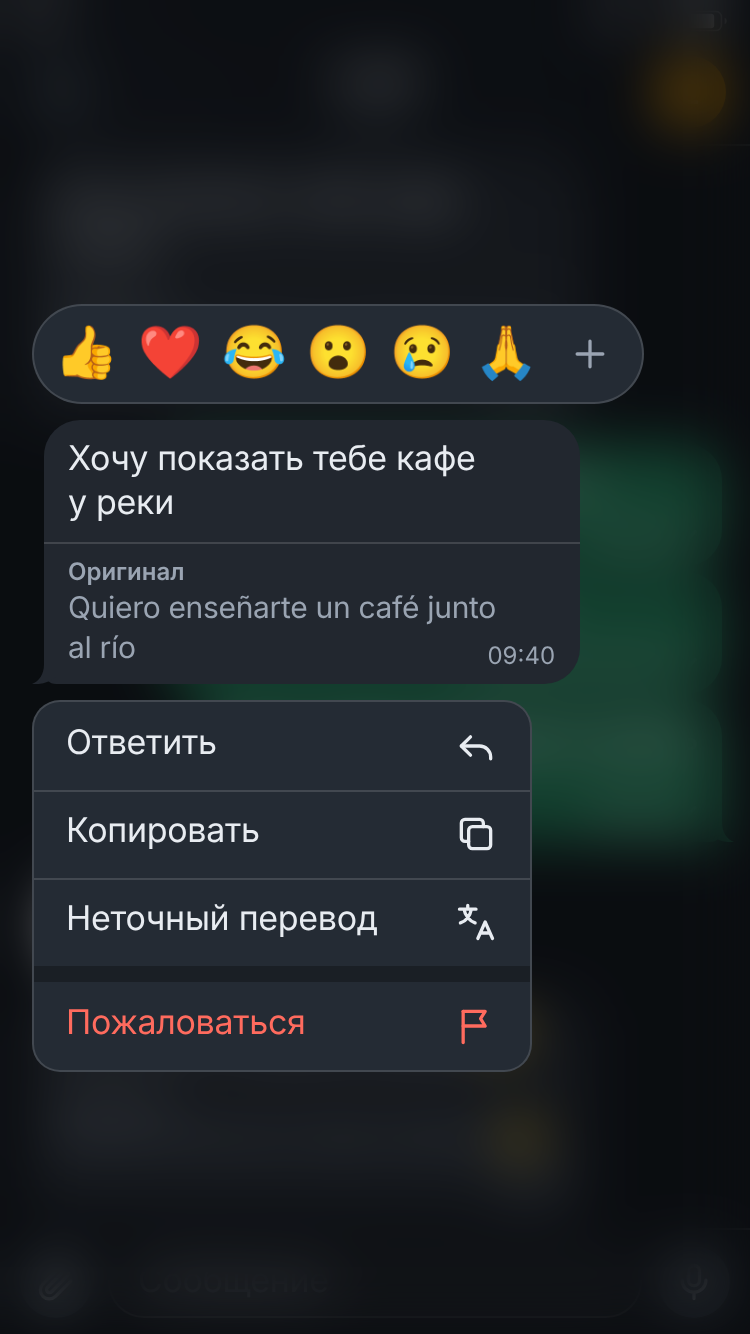
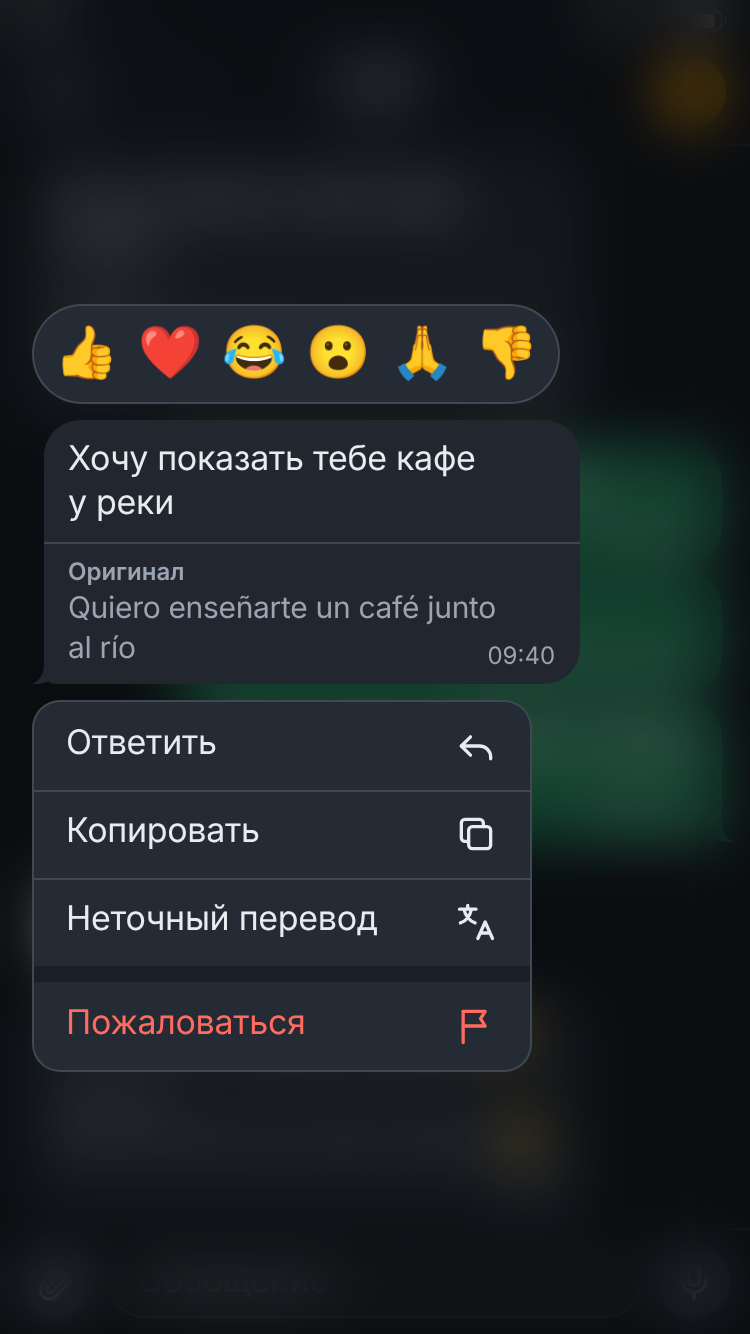
Меню облачка: реакции как в iOS — 👍 ❤ 😂 😮 🙏 👎, без «＋»
Claude-Session: https://claude.ai/code/session_01XzoWkW25V1nW2Qv4cEPq3n

Changed region(s): [[0.736, 0.2151, 0.8587, 0.3073], [0.5213, 0.2459, 0.6133, 0.3073], [0.644, 0.2459, 0.7053, 0.3073]]

diff --git a/redesign-ios/s2-menu-long.html b/redesign-ios/s2-menu-long.html
@@ -20,7 +20,7 @@ document.querySelectorAll('[data-'+l+']').forEach(function(e){e.textContent=e.da
 <div class="wv"><div class="bars"><i class="" style="height:8px"></i><i class="" style="height:14px"></i><i class="" style="height:20px"></i><i class="" style="height:12px"></i><i class="" style="height:24px"></i><i class="" style="height:18px"></i><i class="" style="height:10px"></i><i class="" style="height:22px"></i><i class="" style="height:26px"></i><i class="r" style="height:16px"></i><i class="r" style="height:12px"></i><i class="r" style="height:20px"></i><i class="r" style="height:24px"></i><i class="r" style="height:14px"></i><i class="r" style="height:8px"></i><i class="r" style="height:12px"></i><i class="r" style="height:18px"></i><i class="r" style="height:22px"></i><i class="r" style="height:14px"></i><i class="r" style="height:10px"></i><i class="r" style="height:16px"></i><i class="r" style="height:20px"></i><i class="r" style="height:12px"></i><i class="r" style="height:8px"></i><i class="r" style="height:6px"></i></div><div class="dur">0:14<span class="ms" aria-hidden="true">09:55</span><span class="m">09:55</span></div></div></div></div><div class="b tail in-t">Отлично! Тогда до завтра 🙂<div class="orig"><span class="lb">Оригинал</span><p lang="es">¡Genial! Entonces hasta mañana 🙂<span class="ms" aria-hidden="true">09:56</span><span class="m">09:56</span></p></div></div></div>
 </div>
 <header class="nav"><div class="bar"><span class="cbtn" aria-label="Назад"><svg class="ic " viewBox="0 0 24 24" aria-hidden="true"><path d="M14.5 5.5L8 12l6.5 6.5"/></svg></span><div class="ttl"><b>Lucía</b><span>в сети</span></div><span class="av av36" style="background:var(--av-1)">L</span></div></header>
-<div class="comp"><span class="cbtn" aria-label="Вложение"><svg class="ic " viewBox="0 0 24 24" aria-hidden="true"><path d="M20 11.5l-8.3 8.3a4.8 4.8 0 01-6.8-6.8l8.6-8.6a3.2 3.2 0 014.5 4.5l-8.4 8.4a1.6 1.6 0 01-2.3-2.3l7.7-7.7"/></svg></span><div class="field"><span>Сообщение</span></div><span class="cbtn" aria-label="Голосовое"><svg class="ic " viewBox="0 0 24 24" aria-hidden="true"><rect x="9" y="3" width="6" height="11" rx="3"/><path d="M5.5 11a6.5 6.5 0 0013 0M12 17.5V21"/></svg></span></div><div class="scrim blur"></div><div class="ctx"><div class="rxbar" role="group" aria-label="Реакции"><b>👍</b><b>❤</b><b>😂</b><b>😮</b><b>😢</b><b>🙏</b><b class="more" aria-label="Другие реакции"><svg class="ic " viewBox="0 0 24 24" aria-hidden="true"><path d="M12 5v14M5 12h14"/></svg></b></div>
+<div class="comp"><span class="cbtn" aria-label="Вложение"><svg class="ic " viewBox="0 0 24 24" aria-hidden="true"><path d="M20 11.5l-8.3 8.3a4.8 4.8 0 01-6.8-6.8l8.6-8.6a3.2 3.2 0 014.5 4.5l-8.4 8.4a1.6 1.6 0 01-2.3-2.3l7.7-7.7"/></svg></span><div class="field"><span>Сообщение</span></div><span class="cbtn" aria-label="Голосовое"><svg class="ic " viewBox="0 0 24 24" aria-hidden="true"><rect x="9" y="3" width="6" height="11" rx="3"/><path d="M5.5 11a6.5 6.5 0 0013 0M12 17.5V21"/></svg></span></div><div class="scrim blur"></div><div class="ctx"><div class="rxbar" role="group" aria-label="Реакции"><b>👍</b><b>❤</b><b>😂</b><b>😮</b><b>🙏</b><b>👎</b></div>
 <div class="lift long"><div class="grp in"><div class="b tail in-t">Слушай, я тут подумала: если завтра будет дождь, давай встретимся не у моста, а сразу в кафе у реки. Там есть терраса под навесом, и вид на воду ничуть не хуже. А если будет солнце, можно сначала пройтись по набережной до старой мельницы, там красиво на закате, а потом уже сесть в кафе и взять тот самый пирог с инжиром, про который я говорила.<div class="orig"><span class="lb">Оригинал</span><p lang="es">Oye, si mañana llueve, quedamos en el café del río y no en el puente. Tiene una terraza con techo y la vista al agua es igual de bonita. Y si hace sol, damos un paseo hasta el viejo molino, que de tarde es precioso, y luego nos sentamos en el café a pedir la tarta de higos de la que te hablé.<span class="ms" aria-hidden="true">09:41</span><span class="m">09:41</span></p></div></div></div></div>
 <div class="menu ctxm" role="menu"><div class="it"><span>Ответить</span><svg class="ic " viewBox="0 0 24 24" aria-hidden="true"><path d="M9 7 4 12l5 5"/><path d="M4 12h10a6 6 0 016 6v1"/></svg></div><div class="it"><span>Копировать</span><svg class="ic " viewBox="0 0 24 24" aria-hidden="true"><rect x="8" y="8" width="12" height="12" rx="2"/><path d="M16 8V6a2 2 0 00-2-2H6a2 2 0 00-2 2v8a2 2 0 002 2h2"/></svg></div><div class="it"><span>Неточный перевод</span><svg class="ic " viewBox="0 0 24 24" aria-hidden="true"><path d="M3 5h9M7.5 3v2M5.5 5c.5 3.5 3 6.5 6 7.5M9.5 5c-.7 3.6-3 6.6-6 7.5"/><path d="m13 21 4-9 4 9M14.4 18h5.2"/></svg></div><div class="gap"></div><div class="it danger"><span>Пожаловаться</span><svg class="ic " viewBox="0 0 24 24" aria-hidden="true"><path d="M5 21V4"/><path d="M5 4h12l-2.5 4L17 12H5"/></svg></div></div></div>
 <script>(document.fonts?document.fonts.ready:Promise.resolve()).then(function(){var l=document.querySelector('.ctx .lift');if(l&&l.scrollHeight>l.clientHeight+1)l.classList.add('long')})</script>

diff --git a/redesign-ios/s2-menu.html b/redesign-ios/s2-menu.html
@@ -20,7 +20,7 @@ document.querySelectorAll('[data-'+l+']').forEach(function(e){e.textContent=e.da
 <div class="wv"><div class="bars"><i class="" style="height:8px"></i><i class="" style="height:14px"></i><i class="" style="height:20px"></i><i class="" style="height:12px"></i><i class="" style="height:24px"></i><i class="" style="height:18px"></i><i class="" style="height:10px"></i><i class="" style="height:22px"></i><i class="" style="height:26px"></i><i class="r" style="height:16px"></i><i class="r" style="height:12px"></i><i class="r" style="height:20px"></i><i class="r" style="height:24px"></i><i class="r" style="height:14px"></i><i class="r" style="height:8px"></i><i class="r" style="height:12px"></i><i class="r" style="height:18px"></i><i class="r" style="height:22px"></i><i class="r" style="height:14px"></i><i class="r" style="height:10px"></i><i class="r" style="height:16px"></i><i class="r" style="height:20px"></i><i class="r" style="height:12px"></i><i class="r" style="height:8px"></i><i class="r" style="height:6px"></i></div><div class="dur">0:14<span class="ms" aria-hidden="true">09:55</span><span class="m">09:55</span></div></div></div></div><div class="b tail in-t">Отлично! Тогда до завтра 🙂<div class="orig"><span class="lb">Оригинал</span><p lang="es">¡Genial! Entonces hasta mañana 🙂<span class="ms" aria-hidden="true">09:56</span><span class="m">09:56</span></p></div></div></div>
 </div>
 <header class="nav"><div class="bar"><span class="cbtn" aria-label="Назад"><svg class="ic " viewBox="0 0 24 24" aria-hidden="true"><path d="M14.5 5.5L8 12l6.5 6.5"/></svg></span><div class="ttl"><b>Lucía</b><span>в сети</span></div><span class="av av36" style="background:var(--av-1)">L</span></div></header>
-<div class="comp"><span class="cbtn" aria-label="Вложение"><svg class="ic " viewBox="0 0 24 24" aria-hidden="true"><path d="M20 11.5l-8.3 8.3a4.8 4.8 0 01-6.8-6.8l8.6-8.6a3.2 3.2 0 014.5 4.5l-8.4 8.4a1.6 1.6 0 01-2.3-2.3l7.7-7.7"/></svg></span><div class="field"><span>Сообщение</span></div><span class="cbtn" aria-label="Голосовое"><svg class="ic " viewBox="0 0 24 24" aria-hidden="true"><rect x="9" y="3" width="6" height="11" rx="3"/><path d="M5.5 11a6.5 6.5 0 0013 0M12 17.5V21"/></svg></span></div><div class="scrim blur"></div><div class="ctx"><div class="rxbar" role="group" aria-label="Реакции"><b>👍</b><b>❤</b><b>😂</b><b>😮</b><b>😢</b><b>🙏</b><b class="more" aria-label="Другие реакции"><svg class="ic " viewBox="0 0 24 24" aria-hidden="true"><path d="M12 5v14M5 12h14"/></svg></b></div>
+<div class="comp"><span class="cbtn" aria-label="Вложение"><svg class="ic " viewBox="0 0 24 24" aria-hidden="true"><path d="M20 11.5l-8.3 8.3a4.8 4.8 0 01-6.8-6.8l8.6-8.6a3.2 3.2 0 014.5 4.5l-8.4 8.4a1.6 1.6 0 01-2.3-2.3l7.7-7.7"/></svg></span><div class="field"><span>Сообщение</span></div><span class="cbtn" aria-label="Голосовое"><svg class="ic " viewBox="0 0 24 24" aria-hidden="true"><rect x="9" y="3" width="6" height="11" rx="3"/><path d="M5.5 11a6.5 6.5 0 0013 0M12 17.5V21"/></svg></span></div><div class="scrim blur"></div><div class="ctx"><div class="rxbar" role="group" aria-label="Реакции"><b>👍</b><b>❤</b><b>😂</b><b>😮</b><b>🙏</b><b>👎</b></div>
 <div class="lift"><div class="grp in"><div class="b tail in-t">Хочу показать тебе кафе у реки<div class="orig"><span class="lb">Оригинал</span><p lang="es">Quiero enseñarte un café junto al río<span class="ms" aria-hidden="true">09:40</span><span class="m">09:40</span></p></div></div></div></div>
 <div class="menu ctxm" role="menu"><div class="it"><span>Ответить</span><svg class="ic " viewBox="0 0 24 24" aria-hidden="true"><path d="M9 7 4 12l5 5"/><path d="M4 12h10a6 6 0 016 6v1"/></svg></div><div class="it"><span>Копировать</span><svg class="ic " viewBox="0 0 24 24" aria-hidden="true"><rect x="8" y="8" width="12" height="12" rx="2"/><path d="M16 8V6a2 2 0 00-2-2H6a2 2 0 00-2 2v8a2 2 0 002 2h2"/></svg></div><div class="it"><span>Неточный перевод</span><svg class="ic " viewBox="0 0 24 24" aria-hidden="true"><path d="M3 5h9M7.5 3v2M5.5 5c.5 3.5 3 6.5 6 7.5M9.5 5c-.7 3.6-3 6.6-6 7.5"/><path d="m13 21 4-9 4 9M14.4 18h5.2"/></svg></div><div class="gap"></div><div class="it danger"><span>Пожаловаться</span><svg class="ic " viewBox="0 0 24 24" aria-hidden="true"><path d="M5 21V4"/><path d="M5 4h12l-2.5 4L17 12H5"/></svg></div></div></div>
 <script>(document.fonts?document.fonts.ready:Promise.resolve()).then(function(){var l=document.querySelector('.ctx .lift');if(l&&l.scrollHeight>l.clientHeight+1)l.classList.add('long')})</script>

diff --git a/redesign-ios/tools/build.js b/redesign-ios/tools/build.js
@@ -177,8 +177,8 @@ ${group(false, [
 ${navChat({ left: `<span class="cbtn" aria-label="Назад">${ic('back')}</span>`, title: 'Lucía', sub: 'в сети', right: `<span class="av av36" style="background:var(--av-1)">L</span>` })}
 ${composer(false)}`;
 const s2a = page('Чат с Lucía — фон A', '', lucia);
-// меню облачка (долгое нажатие): реакции, поднятое облачко, пункты. Плоско: без теней, линия 0,5 (SPEC §28)
-const ctxMenu = (b) => `<div class="scrim blur"></div><div class="ctx"><div class="rxbar" role="group" aria-label="Реакции">${['👍', '❤', '😂', '😮', '😢', '🙏'].map((e) => `<b>${e}</b>`).join('')}<b class="more" aria-label="Другие реакции">${ic('plus')}</b></div>
+// меню облачка (долгое нажатие): реакции 👍 ❤ 😂 😮 🙏 👎 — как в iOS (FiChatView.menuColumn, chat.react.0…5), «＋» пока нет; поднятое облачко, пункты. Плоско: без теней, линия 0,5 (SPEC §28)
+const ctxMenu = (b) => `<div class="scrim blur"></div><div class="ctx"><div class="rxbar" role="group" aria-label="Реакции">${['👍', '❤', '😂', '😮', '🙏', '👎'].map((e) => `<b>${e}</b>`).join('')}</div>
 <div class="lift${b.long ? ' long' : ''}"><div class="grp in">${bubble({ ...b, tail: true })}</div></div>
 <div class="menu ctxm" role="menu"><div class="it"><span>Ответить</span>${ic('reply')}</div><div class="it"><span>Копировать</span>${ic('copy')}</div><div class="it"><span>Неточный перевод</span>${ic('trbad')}</div><div class="gap"></div><div class="it danger"><span>Пожаловаться</span>${ic('flag')}</div></div></div>
 <script>(document.fonts?document.fonts.ready:Promise.resolve()).then(function(){var l=document.querySelector('.ctx .lift');if(l&&l.scrollHeight>l.clientHeight+1)l.classList.add('long')})</script>`;

diff --git a/redesign-ios/README.md b/redesign-ios/README.md
@@ -9,7 +9,7 @@
 | `s1-chats.html` | «Чаты»: большой заголовок, поиск, 9 строк (Lucía, группа «Квартира» · 12 участников, Мама — закреплено, Marco, Пётр, Ирина, «Бег по субботам», Ник, Олег). Счётчик: зелёный — обычный чат, серый — чат без звука. Parrlo в списке нет. Таб-бар, активны «Чаты». |
 | `s1-swipe-l.html`, `s1-swipe-r.html` | «Чаты», свайп строки (решение 22.11, iOS #941). Влево: «Без звука» (raised) и «Удалить» (#FF6B5E) у правого края. Вправо: «Прочитано» (acc), полный свайп. Кнопки на всю высоту строки, 84 pt (AX5 — 96), подпись 13/700 без значков, тёмный текст #12161C на цветных кнопках (белый на #FF6B5E и #2BC48A не даёт 4,5:1). |
 | `s1-requests.html` | «Чаты» с блоком «Запросы» первой строкой: значок, «Запросы», счётчик и шеврон, превью в одну строку. На AX5 значка нет, остальное — те же две строки. |
-| `s2-menu.html`, `s2-menu-long.html` | Меню облачка по долгому нажатию: капсула реакций, поднятое облачко, пункты Ответить · Копировать · Неточный перевод · Пожаловаться. Длинное облачко ужато и прокручивается. Без теней — SPEC §28. |
+| `s2-menu.html`, `s2-menu-long.html` | Меню облачка по долгому нажатию: капсула реакций 👍 ❤ 😂 😮 🙏 👎 (без «＋», как в iOS), поднятое облачко, пункты Ответить · Копировать · Неточный перевод · Пожаловаться. Длинное облачко ужато и прокручивается. Без теней — SPEC §28. |
 | `s2-chat-A.html` | Чат с Lucía, фон A (ровный #12161C): перевод с испанским оригиналом, свои сообщения группой, «изменено 09:52», реакция 👍, голосовое, композер. |
 | `s3-parrlo.html` | Вкладка Parrlo — чат с помощником; у имени «Parrlo» в навбаре плашка «ИИ» (открытая пометка ИИ, решение 22.11) (его облачка нейтральные, твои — зелёные), карточка напоминания, композер над таб-баром. |
 | `s4-kbd.html` | Чат Parrlo с открытой клавиатурой (ЙЦУКЕН): композер над клавиатурой, таб-бара и кнопки Parrlo нет. |

diff --git a/SPEC.md b/SPEC.md
@@ -917,6 +917,7 @@ NBSP — по `scripts/nbsp_ios.py`. Кадр: `chat-delete-alert`.
 - Тени остаются только у всплывающих слоёв (диалог, меню, лист) — это не кнопки.
 
 ## 28. 22.11.2026 — меню облачка и капсула реакций: плоско, без теней (решение дизайна по правилу Мурата «всё плоское»)
+- **Капсула реакций:** 👍 ❤ 😂 😮 🙏 👎, порядок как в iOS (`chat.react.0…5`). Кнопки «＋» пока нет: выбора эмодзи ещё нет.
 - **Капсула реакций** и **плашка меню облачка**: без тени. Фон `--raised` (#242B34), обводка 0,5 pt `--line`, как у меню «…» вкладки Parrlo. Скругление: капсула — 26, меню — 14.
 - **Фон за меню:** затемнение 40 % и размытие 14. Слой лежит под меню, поэтому тень не нужна.
 - **Поднятое облачко** — то же облачко, что в чате, без увеличения и тени. Если всё не помещается по высоте (длинное облачко или AX5), облачко ужимается: прокручивается и уходит в прозрачность снизу 36 pt. Капсула реакций и пункты меню всегда видны целиком.
